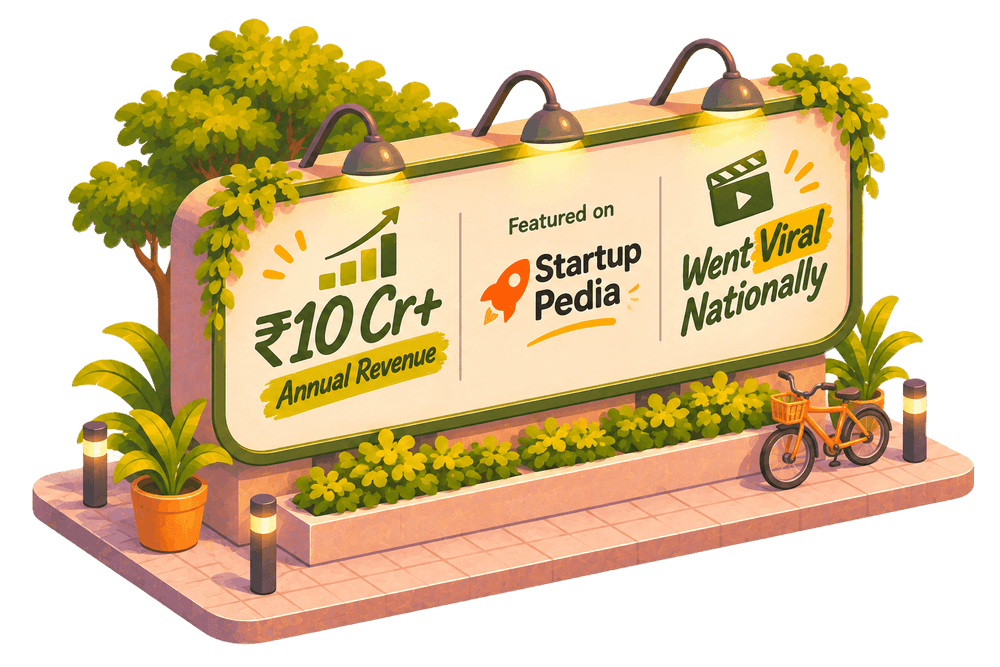
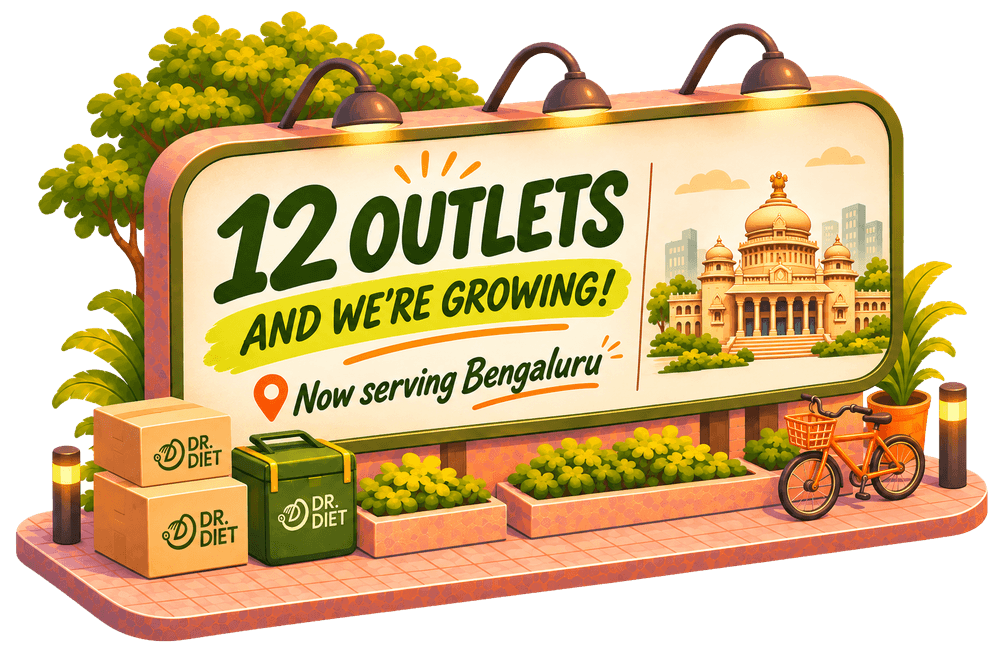
Correct About "Our Journey" timeline per founder brief
- New heading: "From One Kitchen to 17 Outlets"
- Remove the 2019 card (first kitchen opened 2020)
- Rewrite each milestone's year/text to the outlet-count story
  (2020-2026), with no revenue figures or Startup Pedia/viral/
  expansion-city claims
- Replace the 2025 and 2026 billboard illustrations with clean
  "12 outlets / Bengaluru" and "17 outlets / 2,500 meals a day" art

diff --git a/src/pages/About.jsx b/src/pages/About.jsx
@@ -57,13 +57,13 @@ const pressItems = [
 ]
 
 const milestones = [
-  { year: '2019', event: 'Started in a 10×8 room in Chandigarh. First meals at ₹99.', img: '/brand_assets/about/timeline-2019.png' },
-  { year: '2020', event: "COVID shutdown. Lost entire investment. Restarted with landlord's support.", img: '/brand_assets/about/timeline-2020.png' },
-  { year: '2021', event: 'Official relaunch. New kitchen, team of 5 chefs, listed on Swiggy & Zomato.', img: '/brand_assets/about/timeline-2021.png' },
-  { year: '2022–23', event: 'Expanded to Delhi, Noida, Gurgaon and Mohali via partner model.', img: '/brand_assets/about/timeline-2022.png' },
-  { year: '2024', event: 'Crossed 14 outlets. Launched in Bengaluru. Cloud kitchens + QSR + Dine-in.', img: '/brand_assets/about/timeline-2024.png' },
-  { year: '2025', event: '₹10 Cr+ annual revenue. Startup Pedia feature. Went viral nationally.', img: '/brand_assets/about/timeline-2025.png' },
-  { year: '2026', event: 'Targeting ₹15–16 Cr. Expanding to Hyderabad, Pune & Mumbai.', img: '/brand_assets/about/timeline-2026.png' },
+  { year: '2020', event: 'Our first kitchen opened in Chandigarh. Twelve days later, the country went into lockdown.', img: '/brand_assets/about/timeline-2020.png' },
+  { year: '2021', event: '30 September: Dr. Diet officially begins in Chandigarh. Live on Swiggy & Zomato.', img: '/brand_assets/about/timeline-2021.png' },
+  { year: '2022–23', event: '4 outlets across Chandigarh & Mohali.', img: '/brand_assets/about/timeline-2019.png' },
+  { year: '2023–24', event: '5 outlets. More kitchens, same food.', img: '/brand_assets/about/timeline-2022.png' },
+  { year: '2024–25', event: '7 outlets. Into Delhi NCR with our partner model.', img: '/brand_assets/about/timeline-2024.png' },
+  { year: '2025–26', event: '12 outlets. Launched in Bengaluru.', img: '/brand_assets/about/timeline-2025.png' },
+  { year: '2026', event: '17 outlets. 2,500 meals a day across Delhi NCR, Chandigarh & Bengaluru.', img: '/brand_assets/about/timeline-2026.png' },
 ]
 
 export default function About() {
@@ -124,7 +124,7 @@ export default function About() {
       <section className="about-journey-v2" ref={s3}>
         <div className="container about-journey-v2__inner">
           <div className="about-journey-v2__header">
-            <h2>From One Room<br />to a Nationwide Movement</h2>
+            <h2>From One Kitchen<br />to 17 Outlets</h2>
             <div className="about-journey-v2__accent" />
           </div>
 
